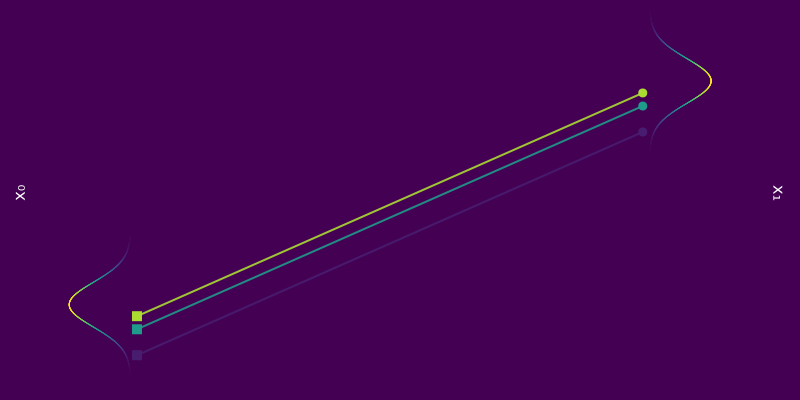
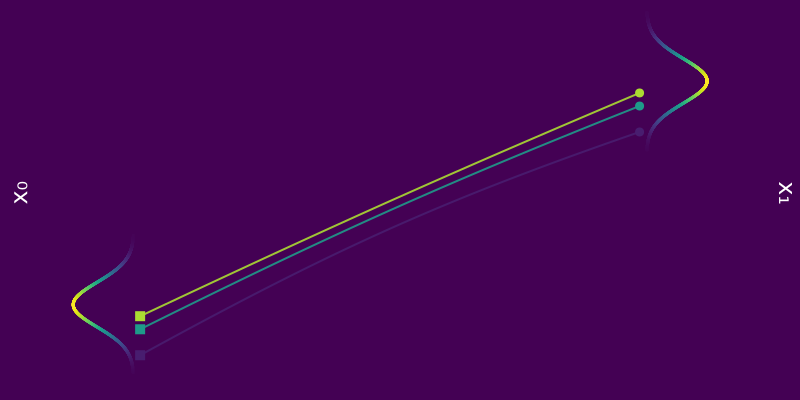
Squashed commit of the following:
commit c4bd81674ba31862468a82185ef30b329c7ee423
Author: Tor Erlend Fjelde <tor.erlend95@gmail.com>
Date:   Fri Apr 5 15:48:23 2024 +0100

    updated a bunch of figures, improved diagrams, and made some other
    blocks collapseable

commit 6afb967b9ca48fbcd99652ff1ae051ed856f7818
Author: Tor Erlend Fjelde <tor.erlend95@gmail.com>
Date:   Fri Apr 5 15:48:06 2024 +0100

    added new representative figure in form of a nice gif

commit 5d0955999948ef0cb3ccfef12c383365a67b0bd3
Author: Tor Erlend Fjelde <tor.erlend95@gmail.com>
Date:   Fri Apr 5 14:41:14 2024 +0100

    changed title

commit 2f50247a5c57dd94884c6562d23c7ecdfb203eb6
Author: Tor Erlend Fjelde <tor.erlend95@gmail.com>
Date:   Fri Apr 5 14:23:03 2024 +0100

    keep one example box open by default

commit 538c037e4374ba998d4084256da6123b2a8662d4
Author: Tor Erlend Fjelde <tor.erlend95@gmail.com>
Date:   Fri Apr 5 14:15:38 2024 +0100

    added collapseable blocks

diff --git a/_posts/2024-01-20-flow-matching.md b/_posts/2024-01-20-flow-matching.md
@@ -1,6 +1,6 @@
 ---
 layout:      post
-title:       "Flow Matching"
+title:       "An introduction to Flow Matching"
 tags:        [diffusion model, normalising flows, generative modelling]
 authors:
     - name: Tor Fjelde
@@ -10,13 +10,22 @@ authors:
     - name: Vincent Dutordoir
       link: https://vdutor.github.io/
 comments:    true
-image:      /assets/images/flow-matching/flow-matching.png
+image:      /assets/images/flow-matching/representative.gif
 excerpt: |
     Flow matching (FM) is a new generative modelling paradigm which is rapidly gaining popularity in the deep learning community. Flow matching combines aspects from Continuous Normalising Flows (CNFs) and Diffusion Models (DMs), alleviating key issues both methods have. In this blogpost we’ll cover the main ideas and unique properties of FM models starting from the basics.
 draft: true
 ---
 
 <style type="text/css">
+/* HACK: Make the corners of the image round */
+main article > img.representative-image {
+  border-radius: 15px !important;
+  /* HACK: gets around the `object-fit: contain` setting */
+  /* Source: https://stackoverflow.com/a/70626773 */
+  max-width: 100% !important;
+  width: inherit;
+}
+
 .my-center { display: flex; }
 .my-center div {
   margin: auto;
@@ -74,12 +83,28 @@ draft: true
   border-color: #bce8f1;
 }
 
-.my-danger, .my-warning, .my-success, .my-info {
+.my-proof {
+  <!-- background-color: rgb(255, 219, 228); -->
+  <!-- border-color: #bce8f1; -->
+}
+
+.my-box {
   padding: 15px;
-  margin-bottom: 20px;
+
+  margin-top: 1em;
+  margin-bottom: 1em;
   
   border: 1px solid transparent;
   border-radius: 4px;
+}
+
+/* Remove margins from p tags inside these boxes */
+.my-box > p:first-of-type {
+    margin-top: 0;
+}
+/ * We sometimes wrap the p tag in a div so deal with that too */
+.my-box > div:first-of-type > p:first-of-type {
+    margin: 0;
 }
     
 .my-quote {
@@ -99,6 +124,25 @@ draft: true
 
 main .image-container .caption {
     text-align: center;
+}
+
+/* Remove the default triangle */
+summary {
+  display: block;
+  /* Make font a bit nicer */
+  font-weight: bold;
+}
+
+/* Create a new custom triangle on the right side */
+summary::after {
+  margin-left: 1ch;
+  display: inline-block;
+  content: '▶';
+  transition: 0.2s;
+}
+
+details[open] > summary::after {
+  transform: rotate(90deg);
 }
 </style>
 
@@ -226,8 +270,10 @@ where the last equality can be seen from the fact that $\phi \circ \phi^{-1} = \
 The quantity $\frac{\partial \phi^{-1}}{\partial y}$ is the Jacobian of the inverse map. It is a matrix of size $d\times d$ containing $J_{ij} = \frac{d\phi^{-1}_i}{dx_j}$.
 Depending on the task at hand, evaluation of likelihood or sampling, the formulation in $\eqref{eq:changevar}$ or $\eqref{eq:changevar-alt}$ is preferred (Friedman, 1987; Chen & Gopinath, 2000).
 
-<div markdown="1" class="my-success">
-#### Example: Transformation of 1D Gaussian variables by linear map
+<details markdown="1" class="my-success my-box" id="example-1d-gaussian-by-linear-map">
+<summary>Example: Transformation of 1D Gaussian variables by linear map</summary>
+
+<div markdown="1">
 
 Suppose $\phi$ is a linear function of the form
 
@@ -298,6 +344,8 @@ If we make the choice of $a = 1$ and $b = \mu$, then we get $\mathcal{N}(\mu, 1)
 </div>
 
 </div>
+
+</details>
 
 Transforming a base distribution $q_0$ into another $p_1$ via a transformation $\phi$ is interesting, yet its direct application in generative modelling is limited. In generative modelling, the aim is to approximate a distribution using only the available samples. Therefore, this task requires the transformation $\phi$ to map samples from a "simple" distribution, such as $\mathcal{N}(0,I)$, to approximately the data distribution. However, a straightforward linear transformation, as in the previous example, is inadequate due to the highly non-Gaussian nature of the data distribution. This brings us to a neural network as a flexible transformation $\phi_\theta$. The key task then becomes optimising the neural net's parameters $\theta$.
 
@@ -470,11 +518,12 @@ One may legitimately wonder why should we bother with such *time-continuous* flo
 
 Now that you know why CNFs are cool, let's have a look at what such a flow would be for a simple example.
 
+<details markdown="1" class="my-success my-box" id="example-gaussian-to-gaussian">
+<summary>
+Example: Gaussian to a Gaussian (1D)
+</summary>
 
-<div markdown="1" class="my-success">
-#### A simple example: $u_t$ from a Gaussian to a Gaussian
-{:.no_toc}
-
+<div markdown="1">
 Let's come back to our earlier example of mapping a 1D Gaussian to another one with different mean.
 In contrast to previously where we derived a 'one-shot' (i.e. *discrete*) flow bridging between the two Gaussians, we now aim to derive a time-*continuous flow* $\phi_t$ which would correspond to the time integrating a vector field $u_t$.
 
@@ -505,7 +554,7 @@ which is visualized in the figure below.
   alt="$\phi_t(x_0)$ for a few samples $x_0 \sim p_0 = \mathcal{N}(0, 1)$ coloured according to $p_0(x_0)$."
   ref="heatmap-colored-trajs.png"
   src="flow-matching/heatmap-colored-trajs.png"
-  width=400
+  width=600
 %}  
 
 </div>
@@ -540,7 +589,7 @@ Hence we have a probability path $p_t = \mathcal{N}(\mu t, 1)$ bridging $p_0$ an
   alt="Probability path $p_t = \mathcal{N}(\mu t, 1)$ from $p_0 = \mathcal{N}(0, 1)$ to $p_1 = \mathcal{N}(\mu, 1)$."
   ref="heatmap-colored.png"
   src="flow-matching/heatmap-colored.png"
-  width=400
+  width=600
 %}  
     
 </div>
@@ -583,7 +632,7 @@ We could of course have gone the other way, i.e. define the $u_t$ such that $p_0
 
 </div>
 
-
+</details>
 
 #### Training CNFs
 {:.no_toc}
@@ -640,7 +689,12 @@ Of course, this requires knowledge of a *valid* $u(t, x)$, and if we already hav
 
 This is where *Conditional* Flow Matching (CMF) comes to the rescue.
 
-<div markdown="1" class="my-info">
+<details markdown="1" class="my-info my-box" open="true">
+<summary>
+Non-uniqueness of vector field
+</summary>
+
+<div markdown="1">
 
 We say *a valid* $u_t$ because there is no *unique* vector field $u_t$; there are indeed many valid choices for $u_t$ inducing maps $p_0 \overset{\phi}{\longleftrightarrow} p_1$ as illustrated in the [figure](#figure-forward_samples-one-color-1) below. As we will see in what follows, in practice we have to pick a particular target $u_t$, which has practical implications.
 
@@ -718,6 +772,8 @@ Figure 7: *Different paths with the same endpoints marginals[^interpolation].*
 </div>
 </div>
 </div>
+
+</details>
 
 <!-- > [name=Tor Erlend Fjelde] TODO: add footnote on details. -->
 
@@ -818,15 +874,15 @@ $$
   &= - \int \hlfour{\nabla} \cdot \big( u_t(x \mid x_1) p_t(x \mid x_1) q(x_1) \big) \dd{x_1} \\
   &= - \hlfour{\nabla} \cdot \int u_t(x \mid x_1) p_t(x \mid x_1) q(x_1) \dd{x_1} \\
   &= - \nabla \cdot \bigg( \int u_t(x \mid x_1) \frac{p_t(x \mid x_1) q(x_1)}{\hlthree{p_t(x)}} \hlthree{p_t(x)} \dd{x_1} \bigg) \\
-  &= - \nabla \cdot \bigg( \hltwo{\int u_t(x \mid x_1) \frac{p_t(x \mid x_1) q(x_1)}{p_t(x)} \dd{x_1}} \ \hlthree{p_t(x)} \bigg) \\
-  &= - \nabla \cdot \big( \hltwo{u_t(x)} \hlthree{p_t(x)} \big)
+  &= - \nabla \cdot \bigg( \hltwo{\int u_t(x \mid x_1) \frac{p_t(x \mid x_1) q(x_1)}{p_t(x)} \dd{x_1}} \ {\hlthree{p_t(x)}} \bigg) \\
+  &= - \nabla \cdot \big( \hltwo{u_t(x)} {\hlthree{p_t(x)}} \big)
 \end{split}
 \end{equation*}
 $$
 
 where in the $\hlone{\text{first highlighted step}}$ we used \eqref{eq:continuity-cond} and in the $\hltwo{\text{last highlighted step}}$ we used the expression of $u_t(x)$ in \eqref{eq:cf-from-cond-vf}.
 
-The relation between $\phi_t(x_0)$, $\phi_t(x_0 \mid x_1)$ and their induced densities are illustrated in the [Figure 9](#figure-flow-matching-diagram) below. And since $\phi_t(x_0)$ and $\phi_t(x_0 \mid x_1)$ are solutions corresponding to the vector fields $u_t(x)$ and $u_t(x \mid x_1)$ with $x(0) = x_0$, [Figure 9](#figure-flow-matching-diagram) is equivalent to [Figure 10](#figure-flow-matching-diagram-2).
+The relation between $\phi_t(x_0)$, $\phi_t(x_0 \mid x_1)$ and their induced densities are illustrated in the [Figure 9](#figure-flow-matching-diagram) below. And since $\phi_t(x_0)$ and $\phi_t(x_0 \mid x_1)$ are solutions corresponding to the vector fields $u_t(x)$ and $u_t(x \mid x_1)$ with $x(0) = x_0$, [Figure 9](#figure-flow-matching-diagram) is equivalent to [Figure 10](#figure-flow-matching-diagram-2), but note the difference in the expectation taken to go from $u_t(x_0 \mid x_1) \longrightarrow u_t(x_0)$ compared to $\phi_t(x_0 \mid x_1) \longrightarrow \phi_t(x_0)$.
 
 <div markdown="1" class="my-center">
 <div>
@@ -861,9 +917,12 @@ The relation between $\phi_t(x_0)$, $\phi_t(x_0 \mid x_1)$ and their induced den
 </div>
 </div>
 
+<details markdown="1" class="my-info my-box" open="true">
+<summary>
+Gaussian to Gaussian (2D) using a conditional flow
+</summary>
 
-<div markdown="1" class="my-info">
-
+<div markdown="1">
 
 Let's try to gain some intuition behind \eqref{eq:cf-from-cond-vf} and the relation between $u_t(x)$ and $u_t(x \mid x_1)$.
 We do so by looking at the following scenario
@@ -982,6 +1041,8 @@ From the above figures, we can immediately see how for small $t$, i.e. near 0, t
 
 </div>
 
+</details>
+
 
 Moreover, equipped with the knowledge of \eqref{eq:cf-from-cond-vf}, we can replace
 $$
@@ -1081,7 +1142,7 @@ $$
 
 as shown in the proof below.
 
-<details>
+<details class="my-proof my-box">
 <summary>Proof</summary>
 
 We have
@@ -1153,9 +1214,13 @@ The simplest solution to the above is then just
 
 </details>
 
-<div markdown="1" class="my-success">
-#### Example: Linear interpolation
-{:.no_toc}
+<!-- Example begin -->
+<details markdown="1" class="my-success my-box" id="example-linear-interpolation" open="true">
+<summary>
+Example: Linear interpolation
+</summary>
+
+<div markdown="1">
 
 A simple choice for the mean $\mu_t(x_1)$ and std. $\sigma_t(x_1)$ is the linear interpolation for both, i.e.
 
@@ -1229,12 +1294,16 @@ Below you can see the difference between $\phi_t(x_0)$ (top figure) and $\phi_t(
 
 </div>
 
+</details>
+
+<!-- Example end -->
+
 
 <!-- 
-<div markdown="1" class="my-success">
+<div markdown="1" class="my-success my-box">
 The _conditional_ vector field is the OT map!
 </div>
-<div markdown="1" class="my-warning">
+<div markdown="1" class="my-warning my-box">
 Does not guarantee that the _marginal_ vector field is the OT map!
 </div>
 -->
@@ -1256,7 +1325,7 @@ remove diffusion vf
 ### (conditional) OT vf
 - $\mu_t = t x_1$ and $\sigma_t = 1 - t = (1 - (1 - \sigma_{\min})t$
 - $u_t(x|x_1) = \frac{1}{1 - t}(x_1 - x) = \frac{1}{1 - (1 - \sigma_\min)t}(x_1 - (1 - \sigma_\min)x)$
-<div markdown="1" class="my-warning">
+<div markdown="1" class="my-warning my-box">
 Does not guarantee that the _marginal_ vector field is the OT map!
 </div>
 
@@ -1506,7 +1575,7 @@ $$
 p_t(x_t) = \int p_t(x_t \mid z) q(z) \dd{z} = \int p_t(x_t \mid x_1, x_0) q(x_1, x_0) \dd{x_1} \dd{x_0}.
 $$
 
-<div markdown="1" class="my-info">
+<div markdown="1" class="my-info my-box">
 
 The following boundary condition on $p_t(x_t \mid x_1, x_0)$: $p_0(\cdot \mid x_1, x_0)=\delta_{x_0}$ and $p_1(\cdot \mid x_1, x_0) = \delta_{x_1}$ is required so that the marginal has the proper conditions $p_0 = q_0$ and $p_1 = q_1$.
 
